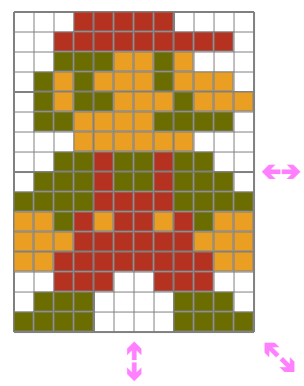
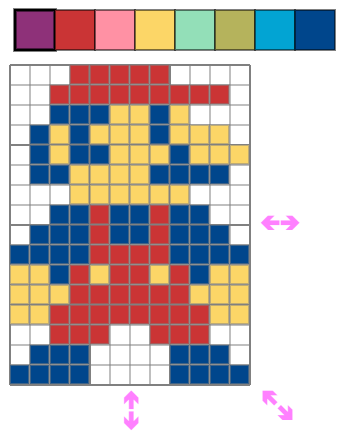
Using color palette in editor

diff --git a/dist/editor.js b/dist/editor.js
@@ -1,4 +1,5 @@
 const SVG_LIB = "http://www.w3.org/2000/svg";
+const SQUARE_COLOR_SIZE = 40;
 const MIN_DIMENSION = 3;
 const MAX_WIDTH_DIMENSION = 125;
 const MAX_HEIGTH_DIMENSION = 50;
@@ -15,16 +16,18 @@ class editor {
         this.width = config.width || 5;
         this.height = config.height || 5;
         this.gridLength = config.gridLength || 5;
-        this.currentColor = config.currentColor || "#000000";
-        this.backgroundColor = config.backgroundColor || "#ffffff";
+        this.palette = config.palette || ["#ffffff", "#8e3179", "#ca3435", "#ff91a4", "#fcd667", "#93dfb8", "#b5b35c", "#02a4d3", "#00468c"];
+        this.backgroundColor = this.palette[0];
+        this.currentColor = this.palette[1];
         this.clicked = false;
         this.states = [];
         this.currentKey = 0;
         this.squareI = null;
         this.squareJ = null;
         this.colorSquare = null;
-        document.body.onmousedown = function (e) {
+        document.body.onmousedown = (e) => {
             if (e.button == 1) {
+                this.switchSquareColor();
                 return false;
             }
         }
@@ -34,6 +37,9 @@ class editor {
     //#region Main Functions
     init() {
         this.createSvgDocument();
+        for (let i = 1; i < this.palette.length; i++) {
+            this.createSquareColor(i);
+        }
         this.createBackground();
         for (let i = 0; i <= this.width; i++) {
             this.createLine(0, i);
@@ -94,14 +100,14 @@ class editor {
         }
     }
 
-    setCurrentColor(value) {
-        this.currentColor = value;
-    }
-
-    setBackgroundColor(value) {
+    setPalette(list) {
+        this.palette = list;
+        this.refreshSquareColors();
         let backgroundColorOld = this.backgroundColor;
-        this.backgroundColor = value;
+        this.backgroundColor = list[0];
         this.refreshBackground(backgroundColorOld);
+        this.currentColor = list[1];
+        
     }
 
     exportJson() {
@@ -148,9 +154,19 @@ class editor {
         }
         let svg = document.createElementNS(SVG_LIB, "svg");
         svg.setAttribute("id", "svg");
-        svg.setAttribute("height", this.size * (this.height + 3) + TRANSLATE_Y);
-        svg.setAttribute("width", this.size * (this.width + 3) + TRANSLATE_X);
         let transform = "translate(" + TRANSLATE_X + "," + TRANSLATE_Y + ")";
+        let colors = document.createElementNS(SVG_LIB, "g");
+        colors.setAttribute("transform", transform);
+        colors.setAttribute("id", "colors");
+        svg.appendChild(colors);
+        let calculatedY = TRANSLATE_Y + SQUARE_COLOR_SIZE + SQUARE_COLOR_SIZE / 2;
+        transform = "translate(" + TRANSLATE_X + "," + calculatedY + ")";
+        svg.setAttribute("height", this.size * (this.height + 3) + TRANSLATE_Y + SQUARE_COLOR_SIZE * 1.5);
+        if (this.size * (this.width + 3) > SQUARE_COLOR_SIZE * this.palette.length) {
+            svg.setAttribute("width", this.size * (this.width + 3) + TRANSLATE_X);
+        } else {
+            svg.setAttribute("width", SQUARE_COLOR_SIZE * this.palette.length + TRANSLATE_X);
+        }
         let components = document.createElementNS(SVG_LIB, "g");
         components.setAttribute("id", "components");
         components.setAttribute("transform", transform);
@@ -168,6 +184,23 @@ class editor {
         arrows.setAttribute("transform", transform);
         svg.appendChild(arrows);
         editorElem.appendChild(svg);
+    }
+
+    createSquareColor(i) {
+        let squareColor = document.createElementNS(SVG_LIB, "rect");
+        squareColor.setAttribute("id", "squareColor_" + i);
+        if (i == 1)
+            squareColor.setAttribute("stroke-width", "3");
+        else
+            squareColor.setAttribute("stroke-width", "1");
+        squareColor.setAttribute("stroke", "black");
+        squareColor.setAttribute("height", SQUARE_COLOR_SIZE);
+        squareColor.setAttribute("width", SQUARE_COLOR_SIZE);
+        squareColor.setAttribute("fill", this.palette[i]);
+        squareColor.setAttribute("x", ((i - 1) * SQUARE_COLOR_SIZE) + SQUARE_COLOR_SIZE / 8);
+        squareColor.setAttribute("y", SQUARE_COLOR_SIZE / 8);
+        squareColor.onclick = (evt) => this.markSquareColor(evt);
+        document.getElementById("colors").appendChild(squareColor);
     }
 
     createBackground() {
@@ -353,8 +386,12 @@ class editor {
 
     changeSvgDocumentSize() {
         let svg = document.getElementById("svg");
-        svg.setAttribute("height", this.size * (this.height + 3) + TRANSLATE_Y);
-        svg.setAttribute("width", this.size * (this.width + 3) + TRANSLATE_X);
+        svg.setAttribute("height", this.size * (this.height + 3) + TRANSLATE_Y + SQUARE_COLOR_SIZE * 1.5);
+        if (this.size * (this.width + 3) > SQUARE_COLOR_SIZE * this.palette.length) {
+            svg.setAttribute("width", this.size * (this.width + 3) + TRANSLATE_X);
+        } else {
+            svg.setAttribute("width", SQUARE_COLOR_SIZE * this.palette.length + TRANSLATE_X);
+        }
     }
 
     changeBackgroundSize() {
@@ -561,6 +598,16 @@ class editor {
         }
     }
 
+    refreshSquareColors() {
+        let colors = document.getElementById("colors");
+        while (colors.firstChild) {
+            colors.removeChild(colors.firstChild);
+        }
+        for (let i = 1; i < this.palette.length; i++) {
+            this.createSquareColor(i);
+        }
+    }
+
     refreshBackground(backgroundColorOld) {
         let background = document.getElementById("background");
         background.setAttribute("fill", this.backgroundColor);
@@ -649,6 +696,19 @@ class editor {
     //#endregion
 
     //#region Event Functions
+    markSquareColor(evt) {
+        let id = evt.target.getAttribute("id");
+        id = id.replace("squareColor_", "");
+        this.currentColor = this.palette[id];
+        evt.target.setAttribute("stroke-width", "3");
+        let squareColor;
+        for (let i = 1; i < this.palette.length; i++) {
+            squareColor = document.getElementById("squareColor_" + i);
+            if (i != id)
+                squareColor.setAttribute("stroke-width", "1");
+        }
+    }
+
     highlightSquare(evt) {
         let id = evt.target.getAttribute("id");
         id = id.replace("square_aux_", "");
@@ -871,6 +931,28 @@ class editor {
                 this.width -= this.gridLength;
         }
         this.refreshArea();
+    }
+
+    switchSquareColor() {
+        let colors = document.getElementById("colors").children;
+        let selected;
+        for (let i = 0; i < colors.length; i++) {
+            if (colors[i].getAttribute("stroke-width") == 3) {
+                if (i == colors.length - 1)
+                    selected = 0;
+                else
+                    selected = i + 1;
+                break;
+            }
+        }
+        this.currentColor = this.palette[selected + 1];
+        colors[selected].setAttribute("stroke-width", "3");
+        let squareColor;
+        for (let i = 1; i < this.palette.length; i++) {
+            squareColor = document.getElementById("squareColor_" + i);
+            if (i != selected + 1)
+                squareColor.setAttribute("stroke-width", "1");
+        }
     }
 
     endColorsChange() {

diff --git a/examples/editor.html b/examples/editor.html
@@ -24,37 +24,12 @@
 		<label>4</label>
 		<input type="radio" name="gridLength" onclick="edt.setGridLength(3)" />
 		<label>3&ensp;</label>
-		<input id="currentColorInput" class="ipt" type="color" value="#000000" list="presetColors" title="Current Color"
-			onchange="onCurrentColorChange()" />
-		<datalist id="presetColors">
-			<option value="#000000"></option>
-		</datalist>
-		<input id="backgroundColorInput" class="ipt" type="color" value="#ffffff" title="Background Color"
-			onchange="onBackgroundColorChange()" />
 	</div>
 	<hr />
 	<div id="editor"></div>
 	<script>
-		var colorList = ["#000000"];
 		const edt = new editor();
 		edt.init();
-
-		function onCurrentColorChange() {
-			let currentColor = document.getElementById("currentColorInput").value;
-			if (!colorList.includes(currentColor)) {
-				let presetColors = document.getElementById("presetColors");
-				let newColor = document.createElement("option");
-				newColor.value = currentColor;
-				presetColors.appendChild(newColor);
-				colorList.push(currentColor);
-			}
-			edt.setCurrentColor(currentColor);
-		}
-
-		function onBackgroundColorChange() {
-			let backgroundColor = document.getElementById("backgroundColorInput").value;
-			edt.setBackgroundColor(backgroundColor);
-		}
 	</script>
 </body>
 

diff --git a/dist/nonogram.js b/dist/nonogram.js
@@ -176,7 +176,7 @@ class nonogram {
         colors.setAttribute("transform", transform);
         colors.setAttribute("id", "colors");
         svg.appendChild(colors);
-        let calculatedY = TRANSLATE_Y + SQUARE_COLOR_SIZE + SQUARE_COLOR_SIZE / 2;
+        let calculatedY = TRANSLATE_Y + SQUARE_COLOR_SIZE * 1.5;
         transform = "translate(" + TRANSLATE_X + "," + calculatedY + ")";
         let main = document.createElementNS(SVG_LIB, "g");
         main.setAttribute("id", "main");
@@ -399,7 +399,7 @@ class nonogram {
 
     changeSvgDocumentSize() {
         let svg = document.getElementById("svg");
-        svg.setAttribute("height", this.size * (this.data.settings.verticalNumbersLength) + this.size * (this.data.settings.height + 3) + TRANSLATE_Y + SQUARE_COLOR_SIZE + SQUARE_COLOR_SIZE / 2);
+        svg.setAttribute("height", this.size * (this.data.settings.verticalNumbersLength) + this.size * (this.data.settings.height + 3) + TRANSLATE_Y + SQUARE_COLOR_SIZE * 1.5);
         svg.setAttribute("width", this.size * (this.data.settings.horizontalNumbersLength) + this.size * (this.data.settings.width + 3) + TRANSLATE_X);
     }
 

diff --git a/README.md b/README.md
@@ -1,11 +1,11 @@
 # DynamicPix
-A javascript library to generate nonograms through a pixel editor and an interface to play them
+Javascript library to generate nonograms through a pixel editor and an interface to play them
 
 ## Files
 
 On /dist you can find the files you need
 
-| file | description  |
+| File | Description  |
 |--|--|
 | [editor.js](https://cdn.jsdelivr.net/gh/kazluBR/DynamicPix/dist/editor.js) | javascript es6 file |
 | [editor-min.js](https://cdn.jsdelivr.net/gh/kazluBR/DynamicPix/dist/editor-min.js) | javascript minified |
@@ -21,32 +21,25 @@ Try online on [CodePen](https://codepen.io/kazluBR/full/WNpvEJz).
 To use the default config of editor you need a div with name "editor" and then load the script as following:
 
 ```html
-    <div id="editor"></div>
-    <script src="editor.js"></script>
-    <script>
-      const edt = new editor();
-	  edt.init();
-    </script>
+<div id="editor"></div>
+<script src="editor.js"></script>
+<script>
+  const edt = new editor();
+  edt.init();
+</script>
 ```
 
 You can configure this settings to customize your editor:
 
 ```javascript
-    const config = {
-      size : int,
-      //defaults to 20
-      width : int, 
-      //defaults to 5
-      height : int 
-      //defaults to 5
-      gridLength : int, 
-      //defaults to 5
-      currentColor: hex, 
-      //defaults to #000000
-      backgroundColor: hex, 
-      //defaults to #ffffff
-    }
-    const edt = new editor(config);
+const config = {
+  size : int, //defaults to 20
+  width : int, //defaults to 5
+  height : int, //defaults to 5
+  gridLength : int, //defaults to 5
+  palette: list //defaults to fixed palette with 8 colors
+}
+const edt = new editor(config);
 ```
 
 | Method | Description |
@@ -57,8 +50,7 @@ You can configure this settings to customize your editor:
 | undo() | Undo the last modification |
 | redo() | Redo the next modification |
 | setGridLength(value) | Sets the size of the editor grid |
-| setCurrentColor(value) | Sets the color to paint and stores the list of used colors |
-| setBackgroundColor(value) | Sets the background color of the drawing |
+| setPalette(list) | Sets the palette passing a list of colors in hexadecimal |
 | exportJson() | Exports the drawing to json format compatible with the game view |
 
 ### Controls
@@ -67,44 +59,44 @@ You can configure this settings to customize your editor:
 | Left Click | Paint square with the selected color |
 | Left Pressing | Paint the squares with the selected color while you hover over them |
 | Left Release | Stop painting squares |
+| Middle Click | Switch color to paint (or you can select directly from the palette) |
 
-## Game
+## Nonogram
 Try online on [CodePen](https://codepen.io/kazluBR/full/pJqrgY).
 
-![alt text](/docs/game_view.png)
+![alt text](/docs/nonogram_view.png)
 
 ### Documentation
 To use the default config of nonogram you need a div with name "nonogram" and a input file to get the generate json data as following:
 
 ```html
-    <input type="file" onchange="loadJson(event)"/>
-    <div id="nonogram"></div>
-    <script src="nonogram.js"></script>
-    <script>
-      const nng = new nonogram();
-      function loadJson(event) {
-        let files = event.target.files;
-        if (files.length <= 0) {
-          return false;
-        }
-        let fr = new FileReader();
-        fr.onload = function (e) {
-          let data = JSON.parse(e.target.result);
-          nng.init(data);
-        }
-        fr.readAsText(files.item(0));
-      }
-    </script>
+<input type="file" onchange="loadJson(event)"/>
+<div id="nonogram"></div>
+<script src="nonogram.js"></script>
+<script>
+  const nng = new nonogram();
+  function loadJson(event) {
+	let files = event.target.files;
+	if (files.length <= 0) {
+	  return false;
+	}
+	let fr = new FileReader();
+	fr.onload = function (e) {
+	  let data = JSON.parse(e.target.result);
+	  nng.init(data);
+	}
+	fr.readAsText(files.item(0));
+  }
+</script>
 ```
 
 You can configure this settings to customize your nonogram:
 
 ```javascript
-    const config = {
-      size : int,
-      //defaults to 20
-    }
-    const nng = new nonogram(config);
+const config = {
+  size : int //defaults to 20
+}
+const nng = new nonogram(config);
 ```
 
 | Method | Description |
